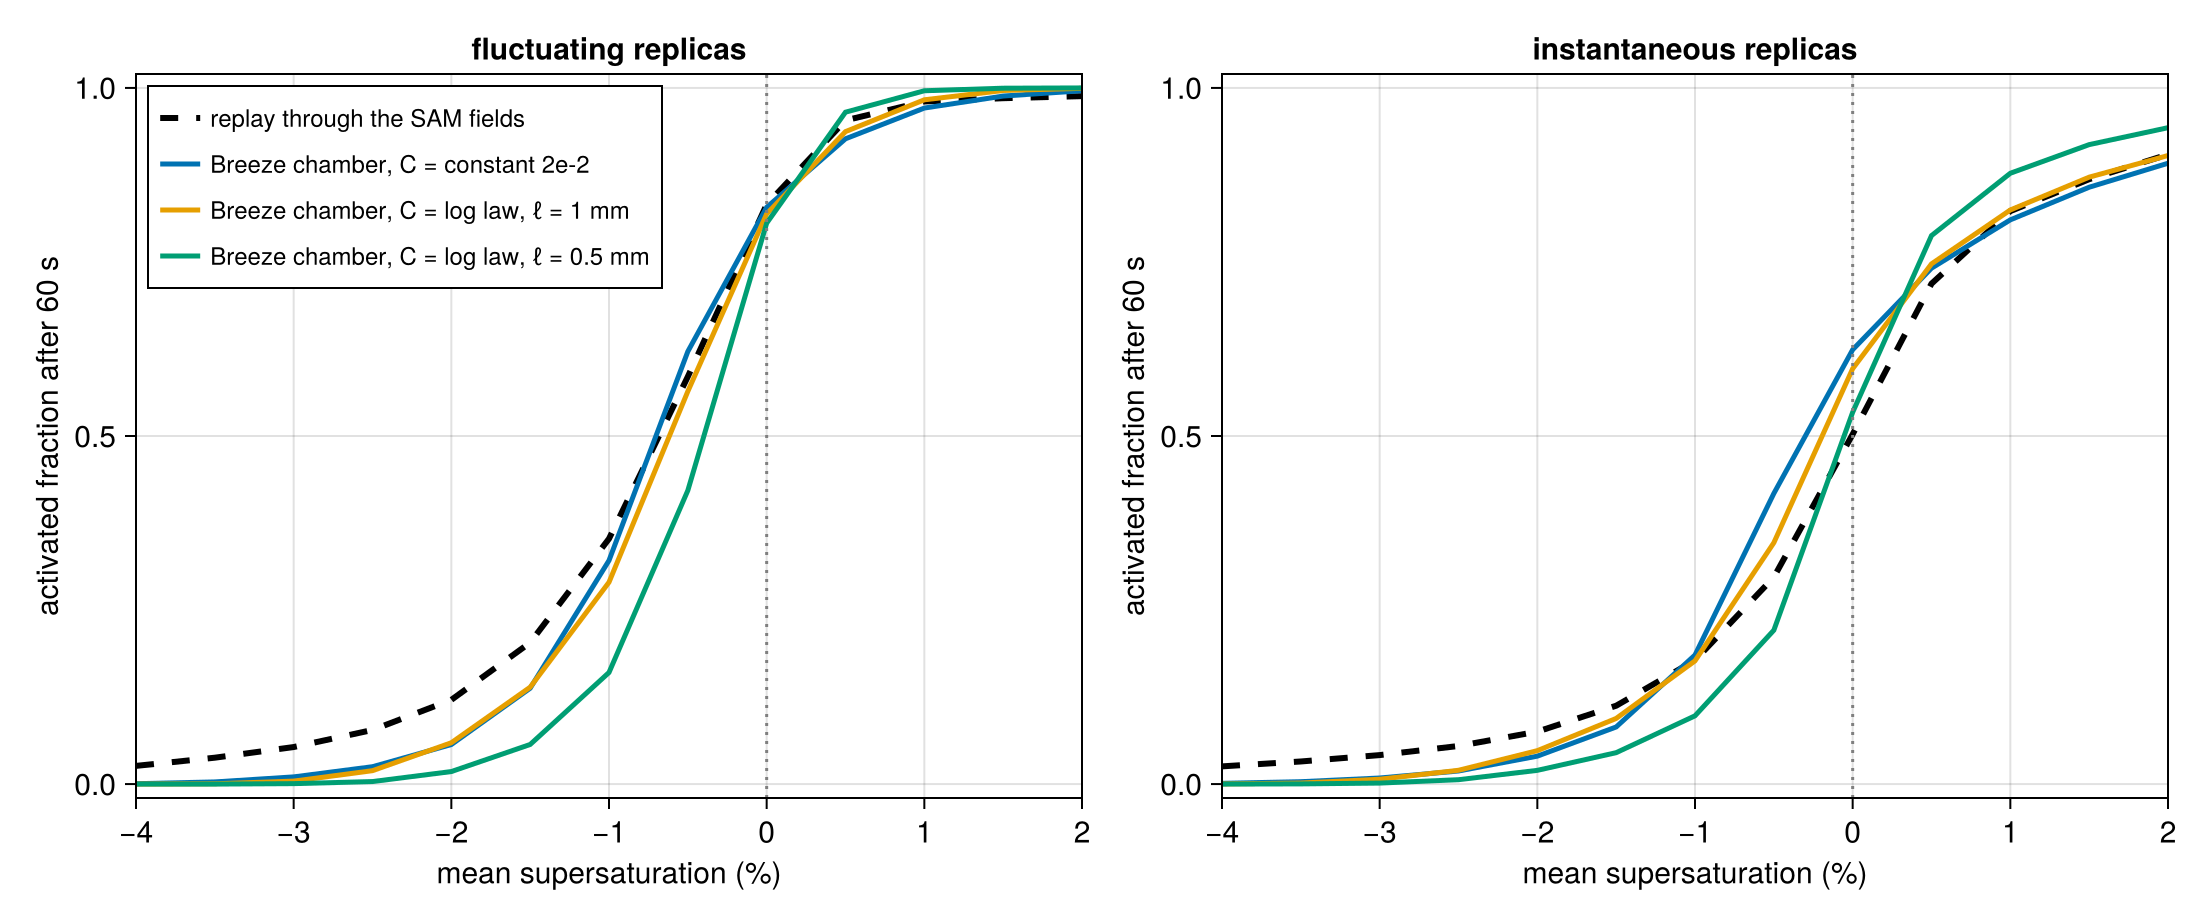
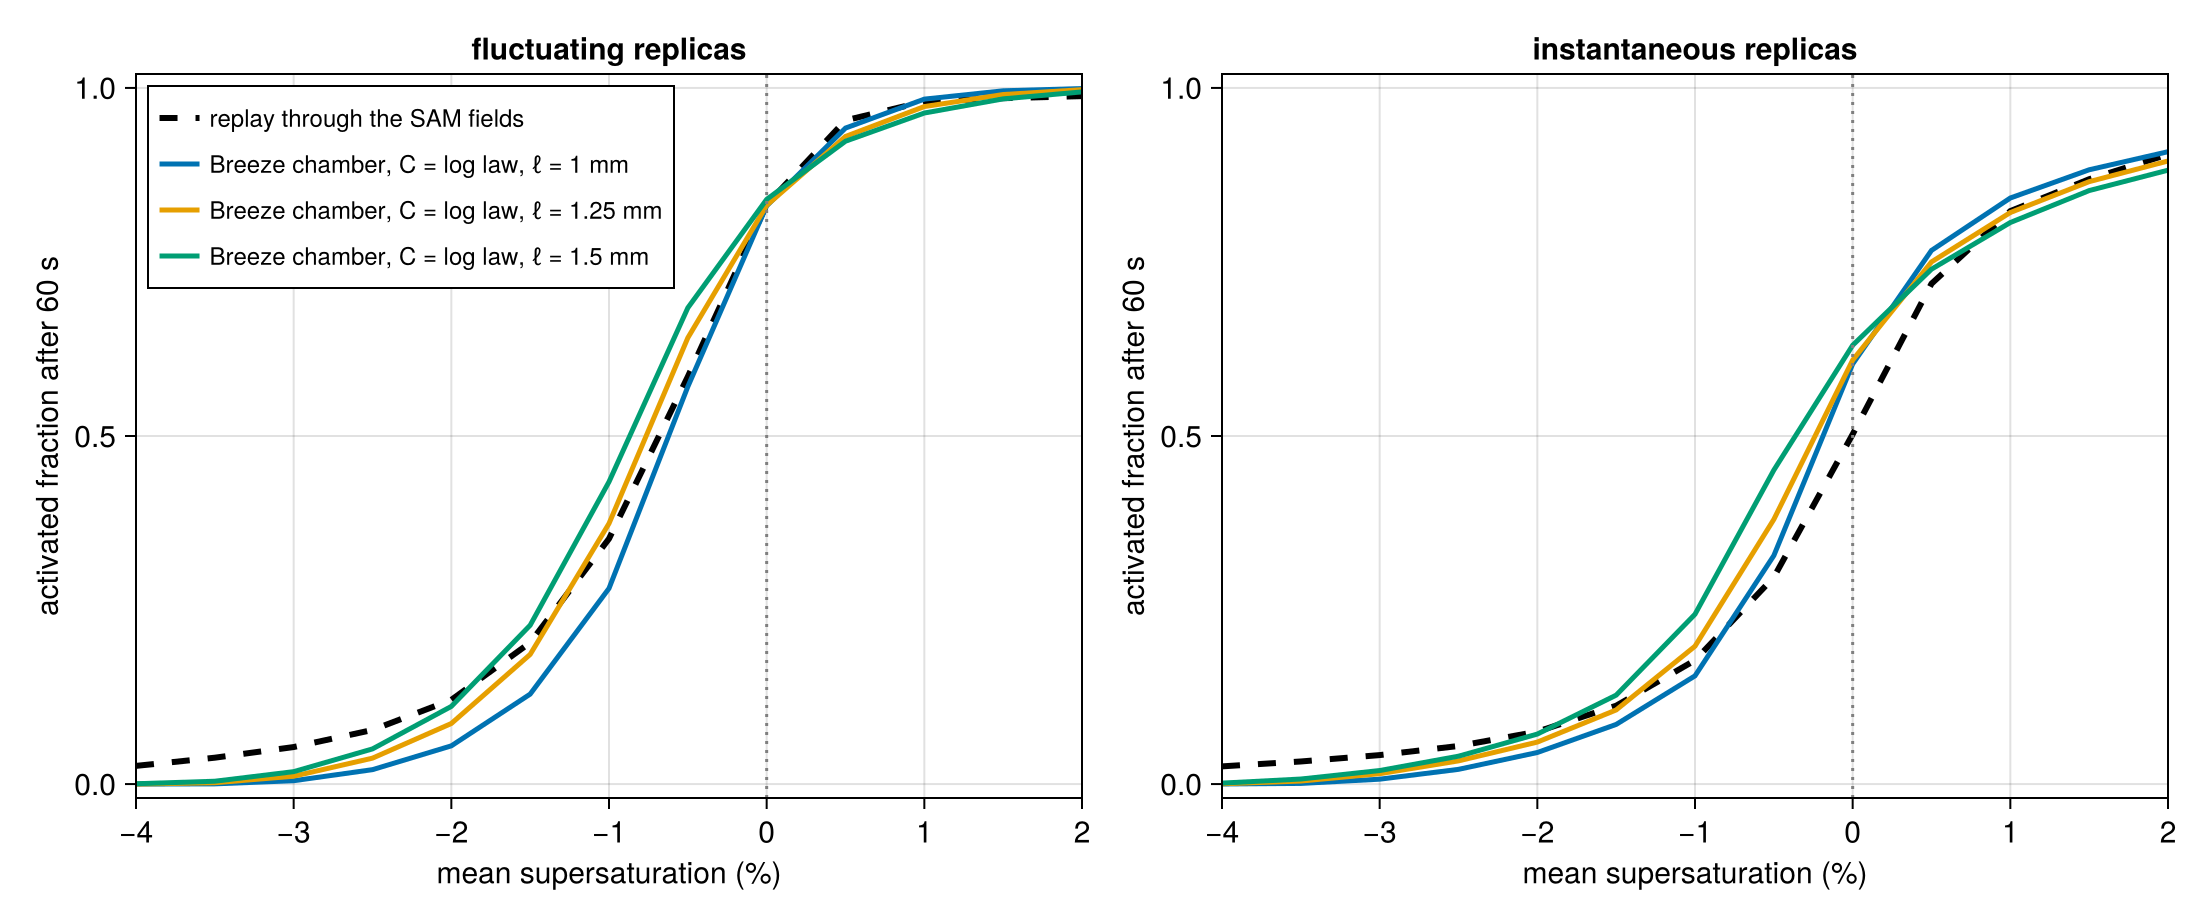
Default roughness 1.25 mm under WENO(5): reference statistics and activation curve reproduced
Claude-Session: https://claude.ai/code/session_01CQKnHK63dDbpppr1ixUm6Y

diff --git a/README.md b/README.md
@@ -23,42 +23,48 @@ Field parity with the reference LES reached for the one-way experiment, with a p
 model and the reference's own condensation sink; no reproduction claim against the paper's
 numbers yet.
 
-The chamber (six-wall bulk fluxes, WENO(9) implicit LES) convects, 10⁴ κ-Köhler droplets are
-advected and grown online, and every droplet carries Anderson's counterfactual replicas for 19
-target mean supersaturations. The same droplet physics and the same replica construction are
-also replayed offline through Anderson's SAM fields (`analysis/reference_trajectories.jl`),
-which is the reference the online chamber is judged against.
+The chamber (six-wall bulk fluxes, WENO(5) implicit LES with bounds-preserving WENO on the
+moisture species, adaptive time step at CFL 0.7) convects, 10⁴ κ-Köhler droplets are advected
+and grown online, and every droplet carries Anderson's counterfactual replicas for 19 target
+mean supersaturations. The same droplet physics and the same replica construction are also
+replayed offline through Anderson's SAM fields (`analysis/reference_trajectories.jl`), which
+is the reference the online chamber is judged against.
 
 Two quantities were calibrated from the reference fields themselves. The condensation rate in
 the SAM snapshots correlates at 0.96 with the local supersaturation excess and gives a phase
 relaxation time of 72 s (`analysis/reference_condensation.jl`), which the chamber's warm-only
 one-moment host reproduces with `relaxation_time = 28` (Breeze's rate carries the latent-heat
 factor Γ ≈ 2.5). The wall model is a log law with the Monin–Obukhov stability correction on the
-floor and ceiling and neutral side walls (`log_law_coefficient`), and a 1 mm roughness length
-gives, at 64 × 64 × 32 with a 15 min spin-up and three 60 s windows:
+floor and ceiling and neutral side walls (`log_law_coefficient`), and a 1.25 mm roughness
+length gives, at 64 × 64 × 32 with a 15 min spin-up and three 60 s windows:
 
 | quantity | Breeze chamber | reference SAM fields |
 |---|---:|---:|
-| interior spread of 𝒮 | 1.23 % | 1.23 % |
-| spread of 𝒮 over the box | 1.82 % | 1.94 % |
-| σ(T), σ(qᵛ) | 0.87 K, 0.69 g kg⁻¹ | 0.85 K, 0.72 g kg⁻¹ |
-| mean 𝒮, interior | +0.48 % | +0.71 % |
-| mean T | 288.9 K | 287.6 K |
-| activated fraction after 60 s at a −1 % target (fluctuating) | 0.27–0.33 | 0.355 |
-| at 0 % (fluctuating / instantaneous) | 0.80–0.83 / 0.59–0.60 | 0.85 / 0.51 |
+| interior spread of 𝒮 | 1.24 % | 1.23 % |
+| spread of 𝒮 over the box | 1.96 % | 1.94 % |
+| Lagrangian spread of 𝒮 along droplets | 1.89–1.93 % | 1.85–1.96 % |
+| correlation time τₛ | 3.0–3.1 s | 2.9–3.1 s |
+| σ(T), σ(qᵛ) | 0.99 K, 0.79 g kg⁻¹ | 0.85 K, 0.72 g kg⁻¹ |
+| mean 𝒮, interior | +0.19 % | +0.71 % |
+| mean T | 288.6 K | 287.6 K |
+| activated fraction after 60 s at a −1 % target (fluctuating) | 0.36–0.41 | 0.355 |
+| at 0 % (fluctuating / instantaneous) | 0.82–0.84 / 0.59–0.62 | 0.85 / 0.51 |
+| at −2 % (fluctuating) | 0.085–0.09 | 0.11 |
 
-![Wall models against the reference replay](figures/wall_model_activation.png)
+![Default chamber against the reference replay](figures/default_chamber_vs_reference_activation.png)
 
-The residual is a 1.3 K warm bias of the mean temperature. A constant coefficient of 2 × 10⁻²
-reproduces the fluctuations equally well but leaves the mean supersaturation near zero, and
-the neutral log-law value 6 × 10⁻³ gives fluctuations three times too weak. The 128 × 128 × 64
-chamber reproduces the 64 × 64 × 32 statistics at the same settings (`figures/ladder_activation.png`).
+The roughness sweep brackets it (1 mm undershoots, 1.5 mm overshoots; `figures/wall_model_activation.png`).
+The residuals are a 1 K warm bias of the mean temperature and a mean supersaturation of
++0.2 % against +0.7 %, both a flux-partition question between floor, ceiling, and side walls.
+A constant coefficient of 2 × 10⁻² reproduces the fluctuations equally well but leaves the
+mean near zero, and the neutral log-law value 6 × 10⁻³ gives fluctuations three times too
+weak. The 128 × 128 × 64 chamber reproduces the 64 × 64 × 32 statistics at the same settings
+(`figures/ladder_activation.png`). WENO(9) gives an interior spread about 12 % larger than
+WENO(5) at the same roughness.
 
-Open items: the warm bias (the flux partition between floor, ceiling, and side walls); the
-far tail of the activation curve (0.06 against 0.11 at −2 %); a numerical instability of the
-cloudy chamber at Δt = 0.04 s (the dry chamber is stable there; production uses 0.02 s); the
-correlation-time definition (Anderson reports 7.5 s where the integral estimator gives 3 s in
-his own fields); second-order particle advection; checkpointing.
+Open items: the warm bias and the mean; the correlation-time definition (Anderson reports
+7.5 s where the integral estimator gives 3 s in his own fields); second-order particle
+advection; checkpointing; the Breeze example.
 
 ## Installing
 
